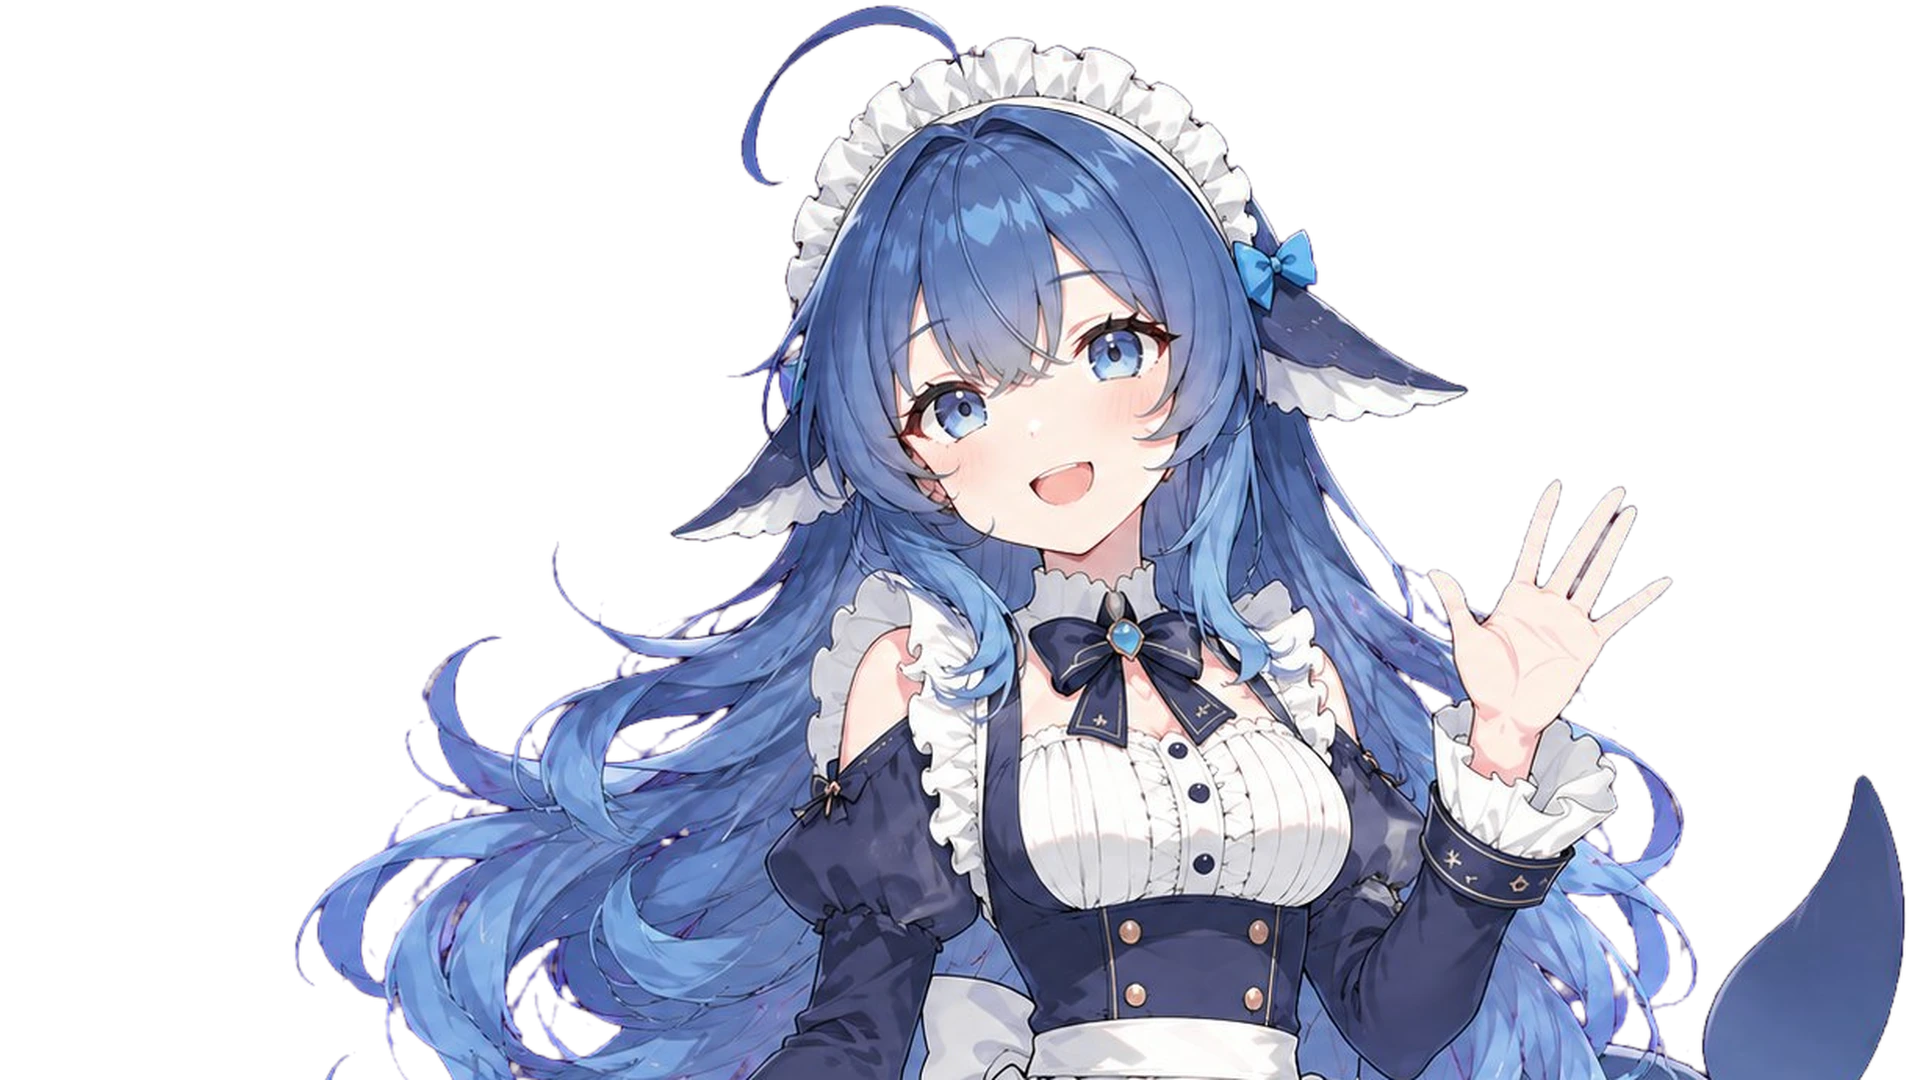
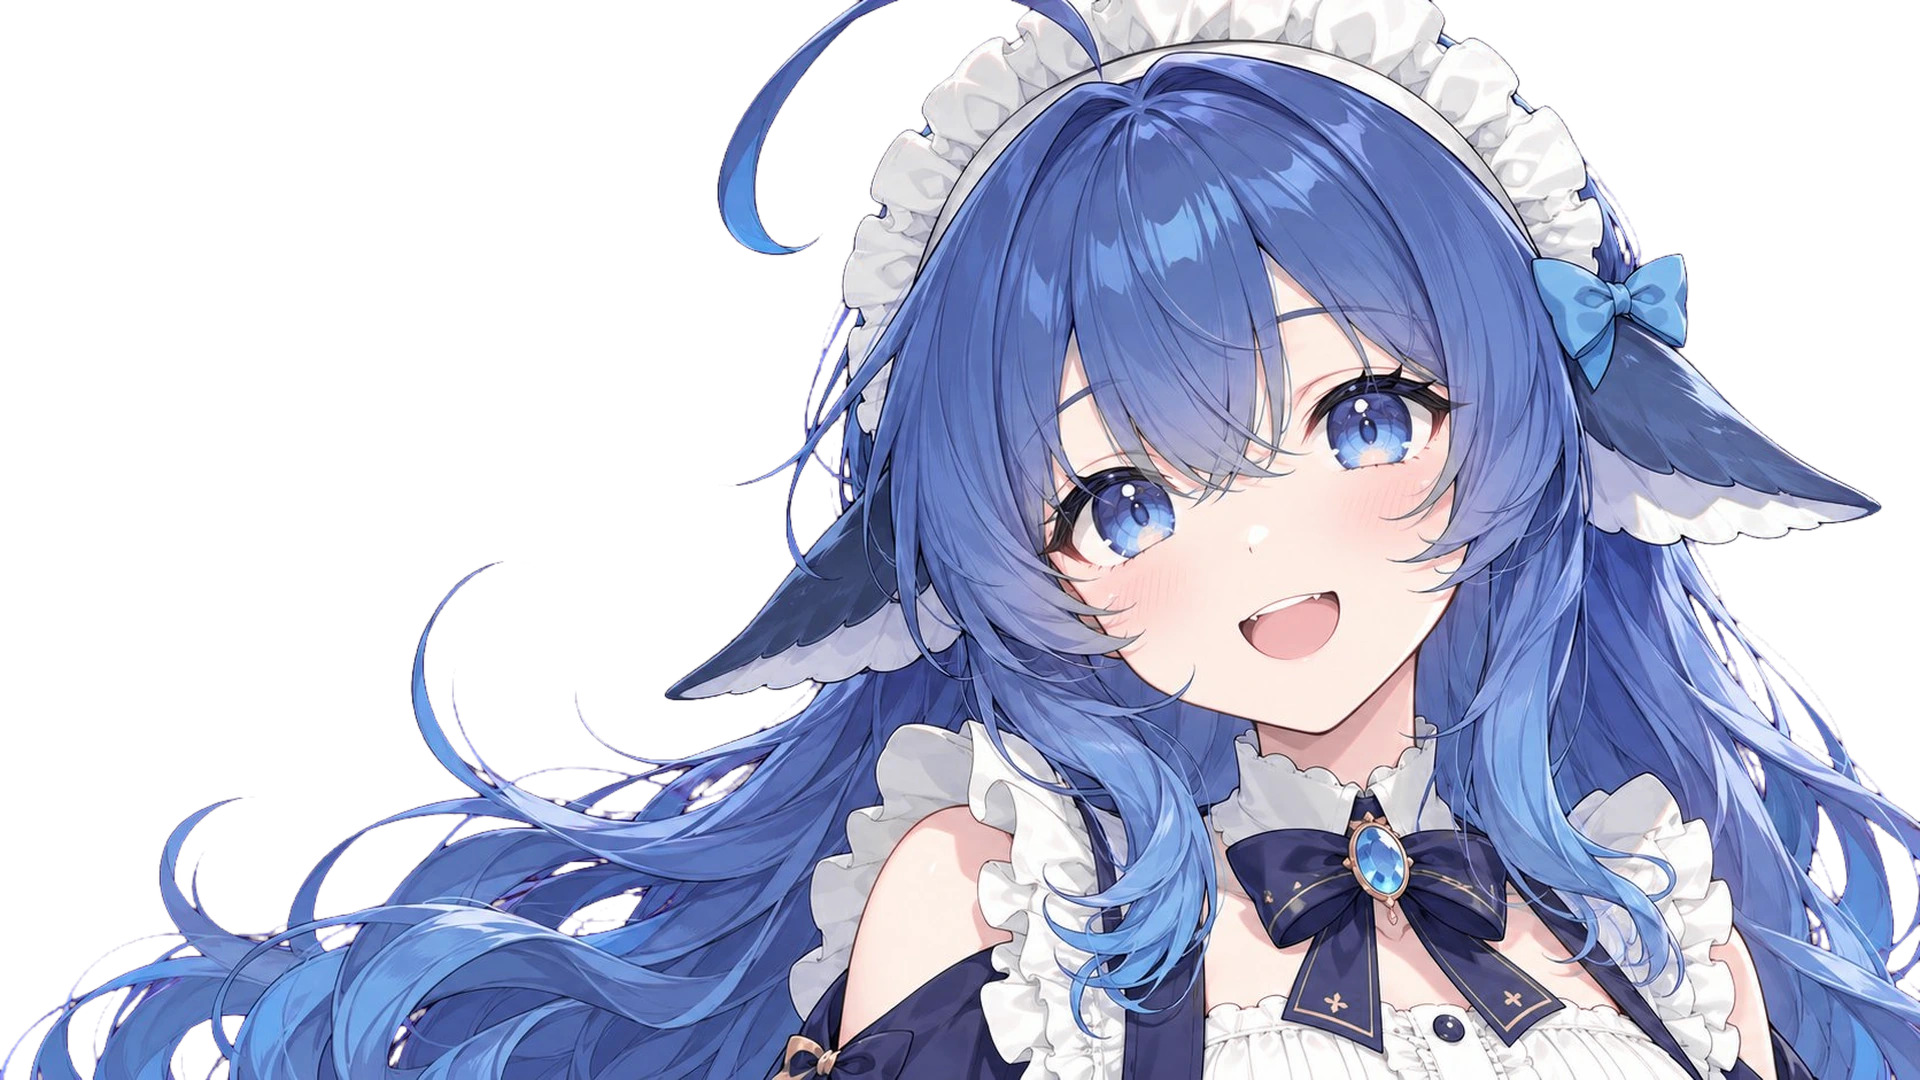
art: 换成特写版 base（脸占 ~42%），压暗改为左上角渐晕
- assets/deepseek-bust.webp  用户新出的 16:9 特写：脸大量放大、眼睛有高光点、
                             左侧留白在垂直中段，alpha 干净
- lib/splash.js              左侧压暗从「整条横向渐变」改成「左上角径向渐晕」，
                             不再把她铺到左侧的头发压灰
- docs/ASSET-PROMPTS.md      变体清单改为 mouth-closed 优先（新 base 是张嘴定格），
                             并标注 1672 宽在 Retina 上仍偏软、建议 2560 起

diff --git a/lib/splash.js b/lib/splash.js
@@ -43,12 +43,12 @@ export const splashStyle = `
 @keyframes dbg-breathe{0%,100%{transform:scale(1)}50%{transform:scale(1.014)}}
 @keyframes dbg-art-in{from{opacity:0; transform:scale(1.03)}to{opacity:1; transform:scale(1)}}
 
-/* ── 左侧压暗：保证文字在任何立绘上都读得清 ── */
+/* ── 左上角渐晕：只压暗文字区，够不到她的头发和脸 ── */
 #dsh-begin-root .dbg-scrim{
   position:absolute; inset:0; pointer-events:none;
   background:
-    linear-gradient(90deg, rgba(4,9,14,.94) 0%, rgba(4,9,14,.80) 26%, rgba(4,9,14,.28) 52%, rgba(4,9,14,0) 70%),
-    linear-gradient(180deg, rgba(4,9,14,.55) 0%, rgba(4,9,14,0) 22%, rgba(4,9,14,0) 72%, rgba(3,7,11,.72) 100%);
+    radial-gradient(78% 72% at 11% 40%, rgba(4,10,16,.90) 0%, rgba(4,10,16,.74) 28%, rgba(4,10,16,.34) 52%, rgba(4,10,16,0) 72%),
+    linear-gradient(180deg, rgba(4,9,14,.42) 0%, rgba(4,9,14,0) 16%, rgba(4,9,14,0) 76%, rgba(3,7,11,.66) 100%);
 }
 
 /* ── 文字区：左侧一列 ── */

diff --git a/docs/ASSET-PROMPTS.md b/docs/ASSET-PROMPTS.md
@@ -96,16 +96,18 @@ Cam 越近，眼睛的戏越多，也就越"有人味"。
 保持输入图像的一切完全不变，只把角色的上眼睑下垂到瞳孔上方约一半，呈半睁的困倦状态，虹膜仍然可见。其余部分不得有任何变化。
 ```
 
-### `mouth-open.png` — 口型 · 微张
+### `mouth-closed.png` — 口型 · 闭口（当前优先）
+
+> 现行 base 是「张嘴笑」的定格，所以需要反向出一张闭口作为静息态。
 
 ```
-保持输入图像的一切完全不变，只把角色的嘴部改为微微张开的小口型，看不到牙齿和舌头，脸颊与下巴保持原样。其余部分不得有任何变化。
+保持输入图像的一切完全不变，只把角色的嘴部改为自然闭合、嘴角微微上扬的浅笑，牙齿与舌头不可见，脸颊与下巴保持原样。其余部分不得有任何变化。
 ```
 
-### `mouth-round.png` — 口型 · 圆口
+### `mouth-narrow.png` — 口型 · 小开口（可选）
 
 ```
-保持输入图像的一切完全不变，只把角色的嘴部改为略呈圆形的「う」口型，嘴唇轻轻聚拢。其余部分不得有任何变化。
+保持输入图像的一切完全不变，只把角色的嘴部改为窄幅张开的小口型，开口比原图明显更小，看不到牙齿和舌头。其余部分不得有任何变化。
 ```
 
 ### `gaze-left.png` / `gaze-right.png` — 目光偏移（可选）
@@ -132,17 +134,19 @@ Cam 越近，眼睛的戏越多，也就越"有人味"。
 ## ④ 交付清单
 
 ```
-base.png（1920×1080）
-eyes-closed.png
-eyes-half.png          （可选）
-mouth-open.png
-mouth-round.png
-gaze-left.png          （可选）
-gaze-right.png         （可选）
+base.png              ← 已收到：1672×941，脸占 ~42%，张嘴笑
+eyes-closed.png       ← 下一张必须出这个
+mouth-closed.png      ← 让静息态闭嘴（base 是张嘴）
+eyes-half.png         （可选）
+mouth-narrow.png      （可选）
+gaze-left.png         （可选）
+gaze-right.png        （可选）
 ```
 
-优先级：**base > eyes-closed > mouth > gaze**。
-只有 `base` 也能做（整图微动 ≈ 70% 观感）；有 `base + eyes-closed` 就能眨眼，观感会明显不一样。
+优先级：**eyes-closed > mouth-closed > mouth-narrow > eyes-half > gaze**。
+
+**分辨率提醒**：现有 base 是 1672 宽，在 Retina 屏（2560+ 物理像素）上仍会被放大。
+若能出 **2560×1440** 或更高，脸达到 650px 以上，细节会实打实地更"真"。
 
 ---
 
